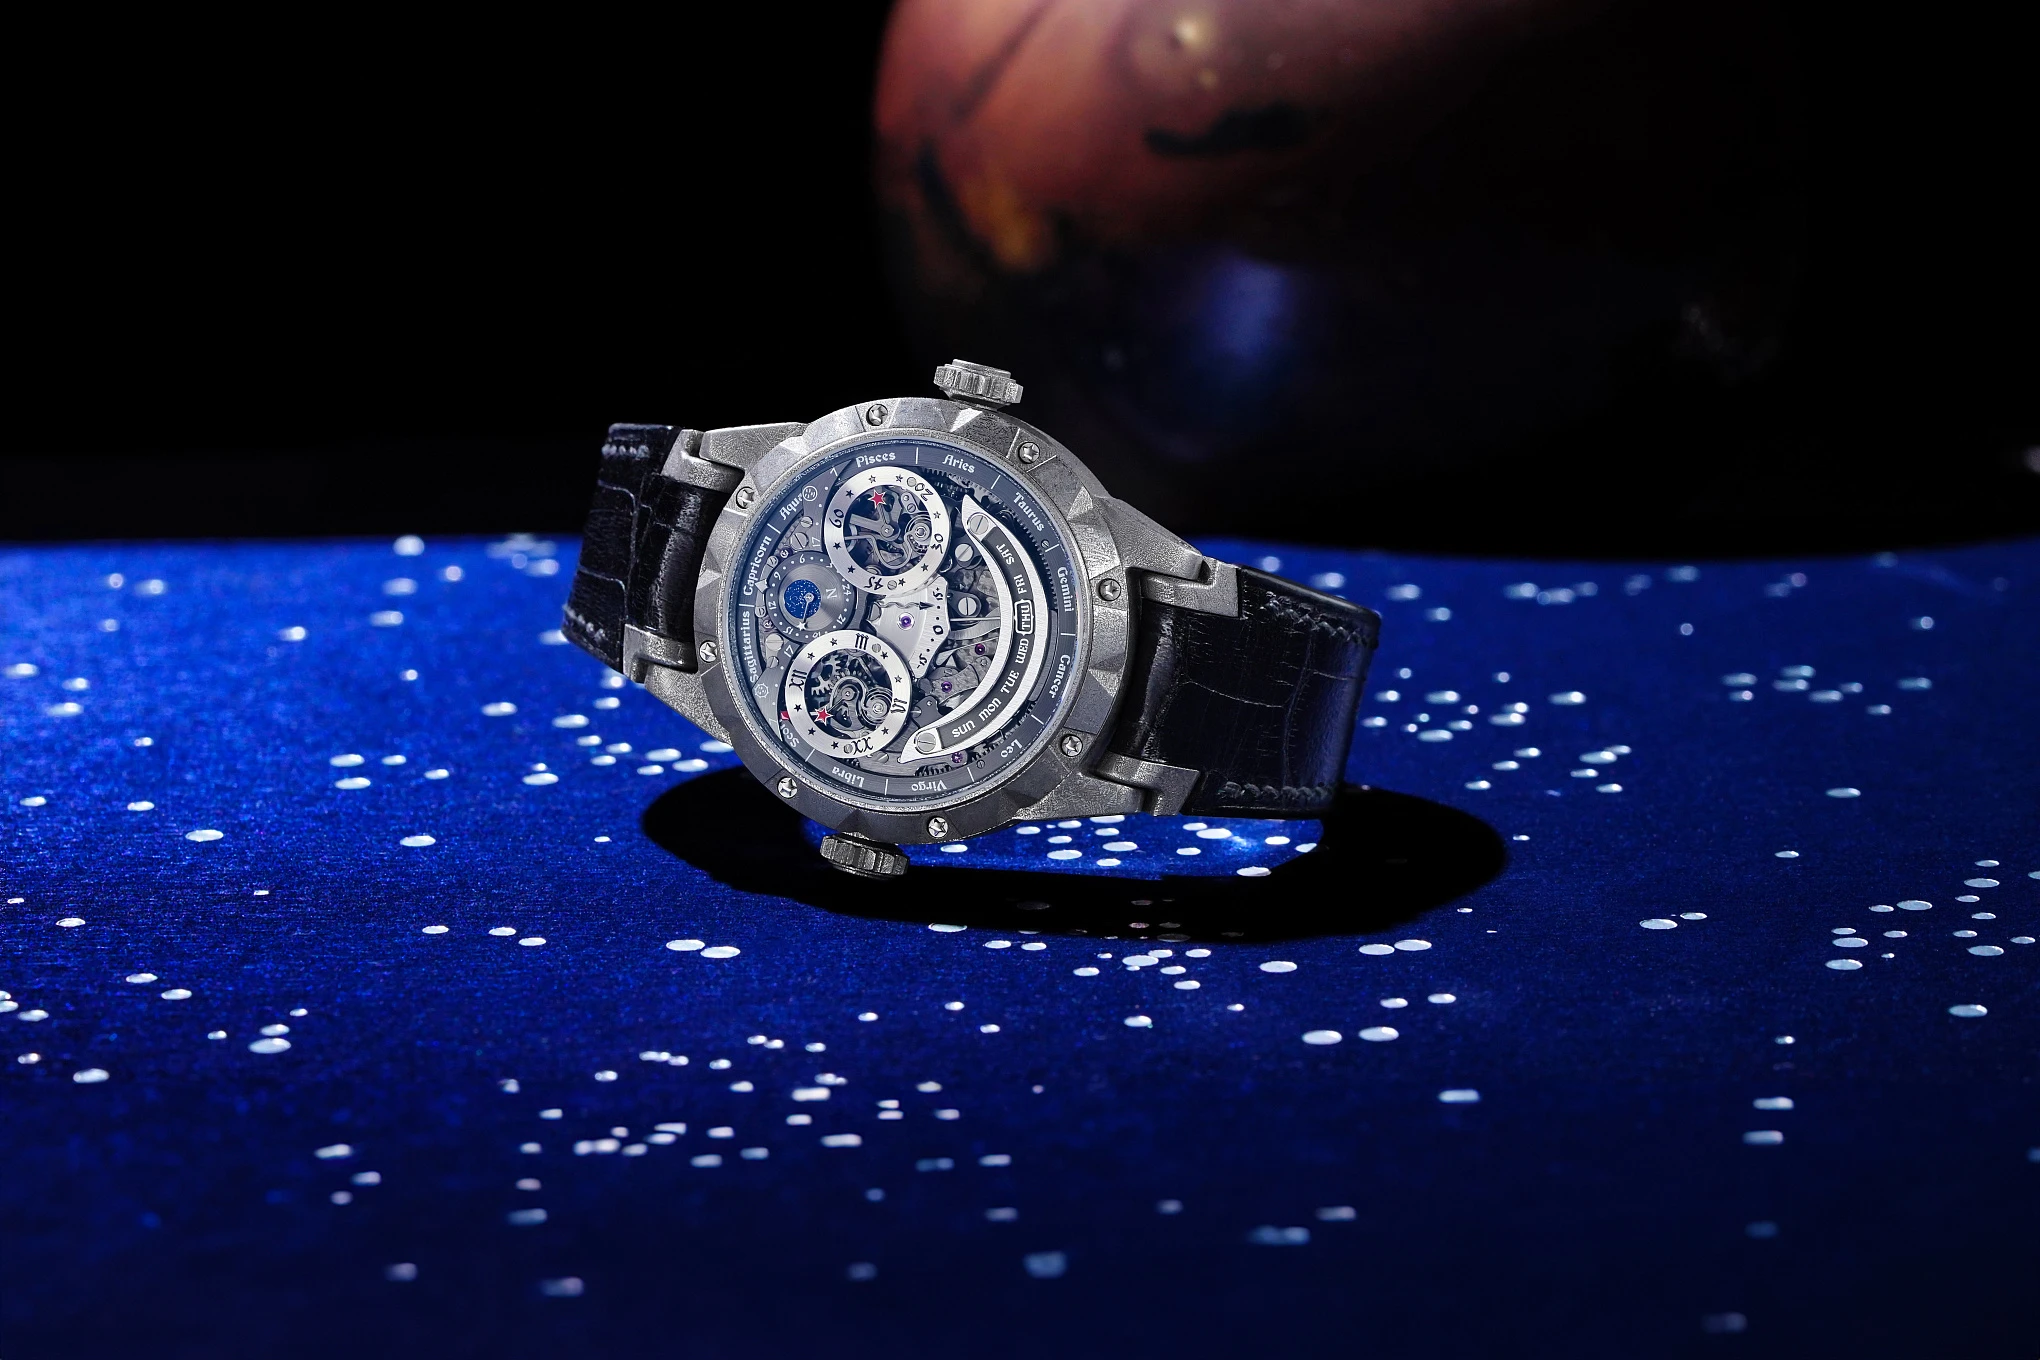
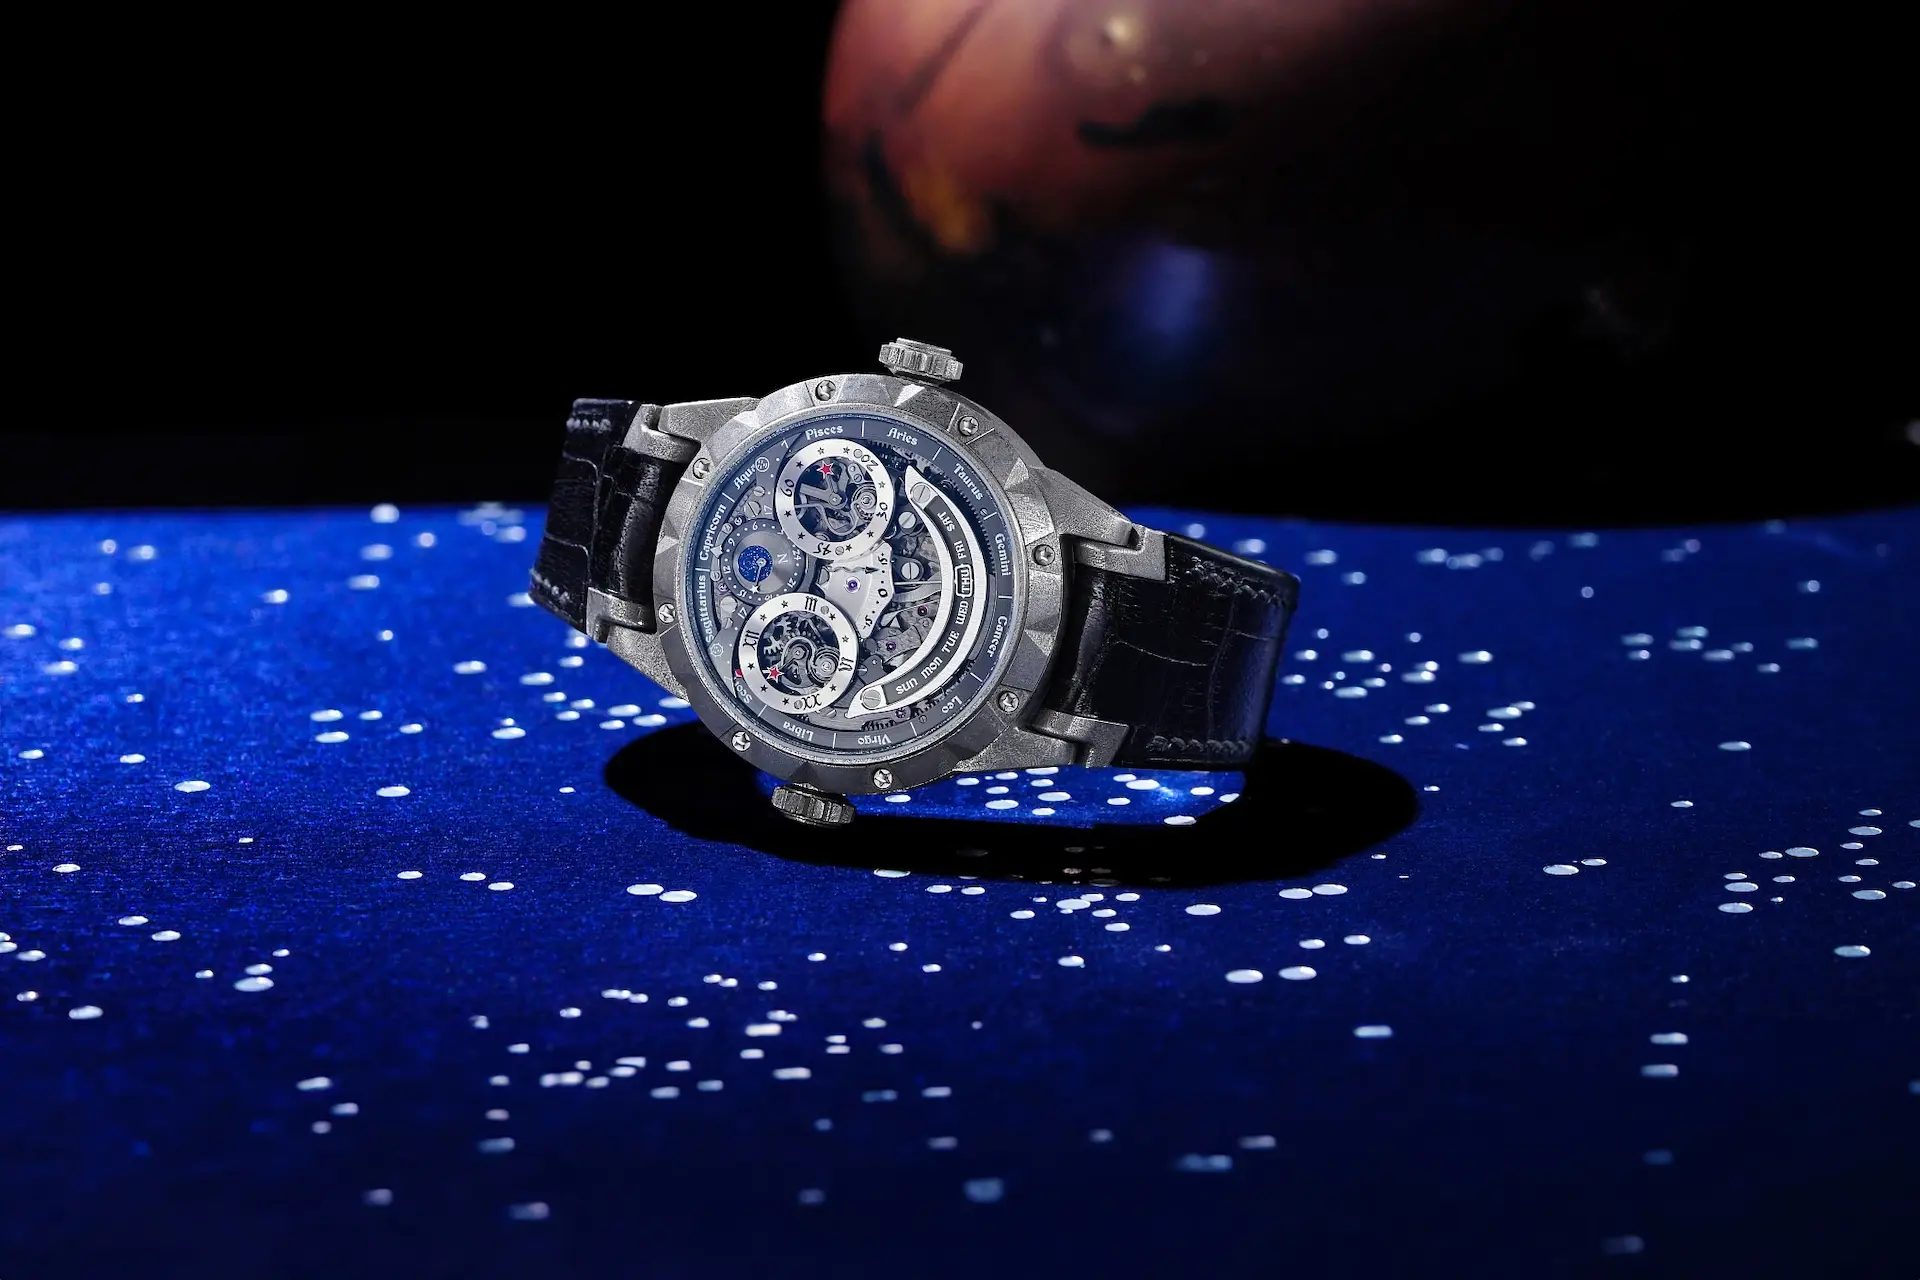
feat: optimized size and format of images

Changed region(s): [[0.3438, 0.3438, 0.5312, 0.5938], [0.4375, 0.5938, 0.4688, 0.625]]

diff --git a/scripts/index.js b/scripts/index.js
@@ -37,11 +37,6 @@ const catalogContent = `
       <p>Find your perfect watch that matches your style and passion.</p>
     `;
 
-document.getElementById("link-home").addEventListener("click", function (e) {
-  e.preventDefault();
-  content.innerHTML = homeContent;
-});
-
 document
   .getElementById("link-articles")
   .addEventListener("click", function (e) {
